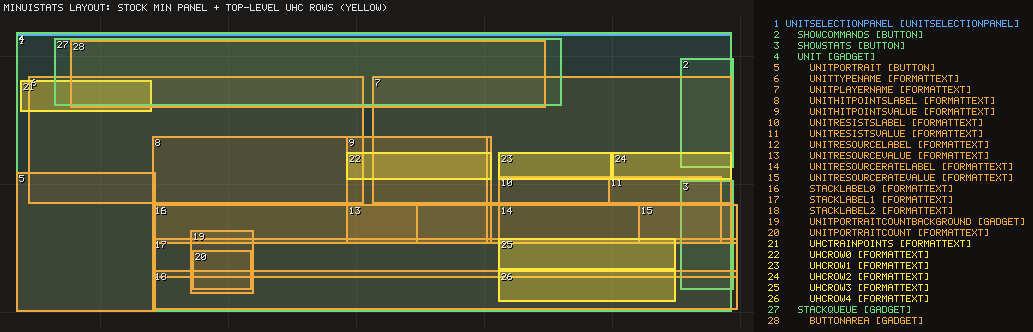
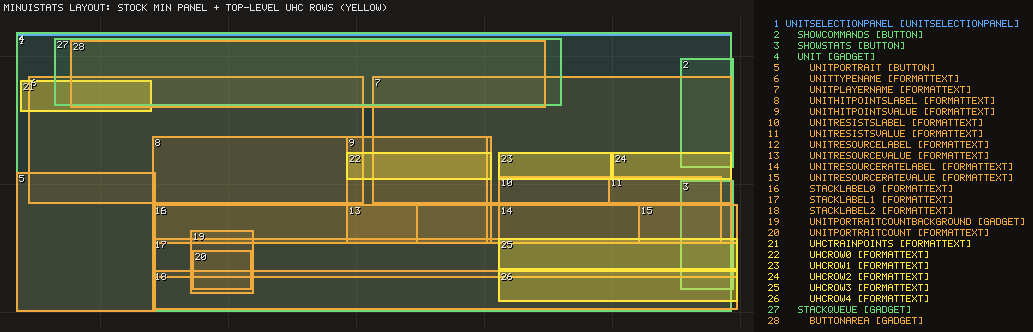
minUIStats: fill a minimized layout loaded without the option; wider rows; FYI note
With WoL.dll's forceMinUI and optionminimizedui off, the exe loaded the
minimized layout but skipped its own block: a hook on the block's choice
(0x4C8276) now runs it whenever the panel has the minimized layout's
unitHitPointsLabel gadget; the normal layout is left alone (tested both).
uhcRow3/uhcRow4 are as wide as the stock attack rows (Sharpshooter's
range fits). note-for-drmaxy.txt replaces the questions (English, FYI);
the stock 9-row stat panel is offered in wol-fixes/min-ui/optional.

Claude-Session: https://claude.ai/code/session_01GGKAnWRpVgHD8ZeFYebw4X

Changed region(s): [[0.6505, 0.6928, 0.7125, 0.9337]]

diff --git a/src/features/minuistats.cpp b/src/features/minuistats.cpp
@@ -35,6 +35,7 @@ extern "C" {
 // 1 while minUIStats runs the stat panel fill for the minimized panel's rows (hooks/minuistats_hooks.asm).
 std::uint32_t g_uhcMinUiForceFill = 0;
 void UhcStatFillMinGate();
+void UhcMinBlockChoice();
 }
 
 namespace {
@@ -1000,7 +1001,7 @@ Outcome ApplyMinUiStats(const Config& config) {
     return Outcome::kFailed;
   }
   if (!VerifyAll("minUIStats",
-                 {&sites::kStatFillHead, &sites::kStatFillMinGate, &sites::kMinResistsUnitGate,
+                 {&sites::kStatFillHead, &sites::kStatFillMinGate, &sites::kMinResistsUnitGate, &sites::kMinBlockChoice,
                   &sites::kGadgetByName, &sites::kGadgetRef, &sites::kGadgetRelease, &sites::kGadgetShow,
                   &sites::kGadgetHide, &sites::kBStringFromWide, &sites::kBStringFromId, &sites::kBStringSet,
                   &sites::kBStringAssign, &sites::kBStringFree, &sites::kCurrentUnitRef, &sites::kMaxHitpointsGetter,
@@ -1014,7 +1015,10 @@ Outcome ApplyMinUiStats(const Config& config) {
   }
   static const std::uint8_t kNops[6] = {0x90, 0x90, 0x90, 0x90, 0x90, 0x90};
   if (!WriteJmp(sites::kStatFillMinGate.va + 0x41, reinterpret_cast<const void*>(&UhcStatFillMinGate), 11) ||
-      !WriteBytes(sites::kMinResistsUnitGate.va + 0x14, kNops, sizeof(kNops)) || !AddUnitPanelTail(&MinUiTail)) {
+      !WriteBytes(sites::kMinResistsUnitGate.va + 0x14, kNops, sizeof(kNops)) || !AddUnitPanelTail(&MinUiTail) ||
+      // After the tail hook, which verifies these bytes too: the minimized block also runs for a minimized layout
+      // loaded without the profile option.
+      !WriteJmp(sites::kMinBlockChoice.va, reinterpret_cast<const void*>(&UhcMinBlockChoice), 11)) {
     return Outcome::kFailed;
   }
   int refs = 0;

diff --git a/tools/gen_sites.py b/tools/gen_sites.py
@@ -1712,6 +1712,9 @@ SITES = [
     # minimized block's way back, jmp 4C8281h
     ("UnitPanelTail", 0x4C8276, 0x15),
     ("UnitPanelMinBlockBack", 0x69A60F, 5),
+    # minUIStats: the choice of that block, cmp byte [esp+5Eh],1 / je 6987D7h (11 bytes, replaced after the tail hook
+    # is in place; inside the UnitPanelTail range, which the tail verifies first)
+    ("MinBlockChoice", 0x4C8276, 0x0B),
     # minUIStats: the stat panel fill FUN_004D70ED, thiscall(panel, selection), ret 4, EBP frame; it reads of its
     # panel only the row handles [+174h+i*4] / [+198h+i*4]. Its head, and its profile option 49h read (push 49h /
     # ... inlined option lookup ... / cmp byte [esp+63h],1 / je 4D81A1h, the 11 bytes the gate replaces at

diff --git a/docs/wol-requests.md b/docs/wol-requests.md
@@ -273,7 +273,7 @@ WoL's Middle East civs.
 | 64 | A `qty` attribute on `<OrPrereqs qty="">`: how many of the prerequisites must be met for the tech to be researched or activated. | mechanic | Built: [`orPrereqsQty`](modding-guide.md#orprereqsqty). In the data, OR is the flag `<Flag>OrPrereqs</Flag>`, so the attribute goes there: `<Flag qty="2">OrPrereqs</Flag>`; the tech is available with N of its `<Prereqs>` met, of any kind. DE has no such attribute (its `OrPrereqs` is the same flag, guide p51, and its techtree has no `qty`). The `<Flag>` handler is wrapped and the evaluator FUN_005094B4 hooked at its head, which `techPrereqRecheck` also calls. In WoL (scenario, with `techPrereqRecheck`): qty 2 of three `TypeCount` buildings activated at the second (45 s), key off at the first (25 s); qty 3 at the third; 0, a word, 9 of 3 and qty on another flag logged. **Decided (2026-11-13):** the attribute stays on the flag: in the data OR is only that flag, so a separate `<OrPrereqs>` element would be a second way to say the same thing, which the game's parser does not know. Not tested: other prerequisite kinds, the AI, multiplayer. | confirmed in WoL (2026-11-13, single player) |
 | 65 | Per-player counters of the cards sent in each age, for `Data` techs that send as many units as the cards sent in age X. | mechanic | Built: [`shipmentCounts`](modding-guide.md#shipmentcounts). DE has `FreeHomeCityUnitByShipmentCount` (every shipment so far, `includeself`; guide p88-89), so the key uses its name and attributes on a Player target and adds `age` (1 to 5); plus `xsGetShipmentCount(playerID, age)` for the AI and triggers. A card counts in the age it was **sent** in (decided 2026-11-13: sending is the player's decision), once it arrives (its transit ends and its tech activates), since a sent card can still be cancelled (by the player or a Blockade); hooks on the queue's add 0x857204 and removal 0x857257 note and forget each card's send age. `age` takes one age or a range (`age='2-4'`), and `xsGetShipmentCountRange(playerID, firstAge, lastAge)` reads a range. Shared: the tech subtypes gained a Player target (`AddTechPlayerSubtype`, the player Data switch 0x8D843E). In WoL: two Age I cards then three Age III cards counted 2 and 3; `includeself` on an Age III card brought 1 Hussar, the next card 1; a tech with `age='1'` brought 2 Hussars; the syscall from an AI rule read `p1 all 5, Age I 2, Age III 3`. **Kept in saved games** (decided 2026-11-13): the counts and the send ages of the cards on their way are saved markers on one living unit, moved when it dies. In WoL: two cards sent in Age II and arriving in Age III counted in Age II (an `includeself` `age='2'` card brought 2 Hussars); saved with both on their way, loaded in a new process: the same counts, units and syscall values (`all 3, I 1, II 2, I-II 3`), and cards sent after the load added up (`1, 2, 2`); the counts survived the deletion of the unit holding them. | confirmed in WoL (2026-11-13, single player) |
 | 66 | A civ that converts its defeated enemies into livestock, each animal random by weight (a high chance of a camel, a low one of a goat). From a WoL team member. | mechanic | Built: [`killSpawn`](modding-guide.md#killspawn). Data in `civs.xml` per civ: `<killSpawn>LivestockCamel 80, ypGoat 20</killSpawn>`, optional `<killSpawnChance>` (%) and `<killSpawnVictims>` (types or protos); a `Data` subtype `KillSpawnChance` on the killer's proto changes the chance per player. The killing blow is TakeDamage's kill path 0x4D4F37, now a shared hook (`killobservers.*`) of `veterancyBonus` and this key. The rolls are the synced RNG 0x407CE7 (stream 2, as the stock dodge), at the kill. The animal is not made inside TakeDamage (the attack applier loops over an area's units there): the world tick makes it, as the stock death replacement 0x506F61 does from the kill handler (the placement test PLACE, world vtable `+14h`, then 0x498ACC), at the victim's spot or up to 4 m from it. No animal from Gaia, own or allied units, buildings, ships or herdables. In WoL (scenarios, Ethiopians' `Cuirassier`): weights 80 / 20 gave 184 camels and 64 goats in 248 kills (74 / 26 %); 100 / 0 only camels; a test tech `Percent 0.5` gave an animal for 69 of 125 kills; bad data (an unknown proto or type, a weight of 0, a chance `abc`) logged and ignored; a civ without the tags nothing; with `veterancyBonus`, `resourceBounty` and `detonationDeath` each kill counted for all; a saved game reloaded kept the tech and its animals, and kills after the load spawned. A skirmish against a German AI (`wolOtto`) on a test map, every civ tagged with victims `Military`: the human's Cuirassiers got 6 camels for 6 infantrymen and the AI's Town Center a goat for a Cuirassier; a normal skirmish of 100 s: the AI built a Manor and trained Settlers. Cost: no frame over 50 ms with the key, in a battle that left 95 animals (fps 348 against 488, the animals being 95 more units). **Decided (2026-11-13):** buildings do not count by default and ships do (a Town Center or a tower would farm herds; a ship that kills on the shore still defeats an enemy): the optional `<killSpawnKillers>` (types or protos) chooses the killers, and `<killSpawnKillers>Building</killSpawnKillers>` gives the buildings back. The animals stay ordinary livestock, which enemies can take over: the game's own rule, and the mod chooses the proto. One list per civ; a list per unit type could become a proto tag later if asked. In WoL after the decision: an Outpost's kill gave nothing without the tag (logged) and a goat and a camel for two kills with `<killSpawnKillers>Building</killSpawnKillers>`. The 80/20 pick was checked: 0x407CE7 returns `(seed >> 16 & 7FFFh) mod (max + 1)`, `max` inclusive, a plain modulo, so it was left as it is; 308 more kills gave 86 / 14 %, and all 556 kills 80.9 / 19.1 %. The hook alone (key on, no civ tagged, against key off, the same battle): 515 against 507 fps, update 0.19 ms both, no frame over 50 ms: no measurable cost. Not tested: multiplayer. | confirmed in WoL (2026-11-13, single player) |
-| 67 | The minimized UI shows less than the big UI: make `UiUnitselectionMIN` show the same or more, from the original minimized UI (buildings have no armor; speed hangs on the armor value). From Dr.Maxy (2026-11-16). | interface | Built: [`minUIStats`](modding-guide.md#minuistats). Rows listed in `data\uhc\minuirows.xml`, top-level gadgets of `uiunitselectionmin.xml`: live speed, LOS, garrison, train points; `bigPanelRows` mirrors the big stat panel's rows the minimized one lacks (4th attack on, gatherers); building armor in the stock resists; nine `{uhc...}` data refs. Catalog and research: [unit-panel-catalog.md](unit-panel-catalog.md). Pack for WoL: `wol-fixes/min-ui` (layout from the stock file, data file, README, questions 5 and 6 for Dr.Maxy). | confirmed in WoL (2026-11-17, single player, also beside WoL.dll's `forceMinUI` and `trickleDisplay`) |
+| 67 | The minimized UI shows less than the big UI: make `UiUnitselectionMIN` show the same or more, from the original minimized UI (buildings have no armor; speed hangs on the armor value). From Dr.Maxy (2026-11-16). | interface | Built: [`minUIStats`](modding-guide.md#minuistats). Rows listed in `data\uhc\minuirows.xml`, top-level gadgets of `uiunitselectionmin.xml`: live speed, LOS, garrison, train points; `bigPanelRows` mirrors the big stat panel's rows the minimized one lacks (4th attack on, gatherers); building armor in the stock resists; nine `{uhc...}` data refs. Catalog and research: [unit-panel-catalog.md](unit-panel-catalog.md). Pack for WoL: `wol-fixes/min-ui` (layout from the stock file, data file, README, a note for Dr.Maxy, the stock 9-row stat panel as an optional extra). | confirmed in WoL (2026-11-17, single player, also beside WoL.dll's `forceMinUI` and `trickleDisplay`) |
 
 ## Minor items left (2026-11-08)
 

diff --git a/docs/porting-code/interface.md b/docs/porting-code/interface.md
@@ -2022,7 +2022,7 @@ Contract: [minUIStats](../porting-to-another-dll.md#minuistats).
 
 Besides the core helpers, it needs: [`datarefs.h`](helpers.md#data-refs), [`unitpanel.h`](helpers.md#unit-panel-row-the-minimized-interface), [`unittypes.h`](helpers.md#extra-abstract-unit-types).
 
-Sites: `BStringFree` `0x4010CA` (31 B), `BStringSet` `0x40196F` (36 B), `BStringFromWide` `0x401A12` (40 B), `GadgetRelease` `0x40431B` (44 B), `BStringAssign` `0x443BB8` (15 B), `GadgetShow` `0x447F7B` (70 B), `GadgetHide` `0x448F13` (57 B), `IsA` `0x44D7FA` (105 B), `MaxHitpointsGetter` `0x480408` (38 B), `LosGetterHead` `0x48206D` (52 B), `MaxContained` `0x49EB5A` (17 B), `GadgetRef` `0x4C519C` (27 B), `StatFillHead` `0x4D70ED` (24 B), `StatFillMinGate` `0x4D721B` (76 B), `BStringFromId` `0x58EA52` (25 B), `MinResistsUnitGate` `0x698BE2` (26 B), `CurrentUnitRef` `0x6F49B1` (65 B), `GadgetByName` `0xAB7C2F` (38 B).
+Sites: `BStringFree` `0x4010CA` (31 B), `BStringSet` `0x40196F` (36 B), `BStringFromWide` `0x401A12` (40 B), `GadgetRelease` `0x40431B` (44 B), `BStringAssign` `0x443BB8` (15 B), `GadgetShow` `0x447F7B` (70 B), `GadgetHide` `0x448F13` (57 B), `IsA` `0x44D7FA` (105 B), `MaxHitpointsGetter` `0x480408` (38 B), `LosGetterHead` `0x48206D` (52 B), `MaxContained` `0x49EB5A` (17 B), `GadgetRef` `0x4C519C` (27 B), `MinBlockChoice` `0x4C8276` (11 B), `StatFillHead` `0x4D70ED` (24 B), `StatFillMinGate` `0x4D721B` (76 B), `BStringFromId` `0x58EA52` (25 B), `MinResistsUnitGate` `0x698BE2` (26 B), `CurrentUnitRef` `0x6F49B1` (65 B), `GadgetByName` `0xAB7C2F` (38 B).
 
 ### src/features/minuistats.cpp
 
@@ -2064,6 +2064,7 @@ extern "C" {
 // 1 while minUIStats runs the stat panel fill for the minimized panel's rows (hooks/minuistats_hooks.asm).
 std::uint32_t g_uhcMinUiForceFill = 0;
 void UhcStatFillMinGate();
+void UhcMinBlockChoice();
 }
 
 namespace {
@@ -3029,7 +3030,7 @@ Outcome ApplyMinUiStats(const Config& config) {
     return Outcome::kFailed;
   }
   if (!VerifyAll("minUIStats",
-                 {&sites::kStatFillHead, &sites::kStatFillMinGate, &sites::kMinResistsUnitGate,
+                 {&sites::kStatFillHead, &sites::kStatFillMinGate, &sites::kMinResistsUnitGate, &sites::kMinBlockChoice,
                   &sites::kGadgetByName, &sites::kGadgetRef, &sites::kGadgetRelease, &sites::kGadgetShow,
                   &sites::kGadgetHide, &sites::kBStringFromWide, &sites::kBStringFromId, &sites::kBStringSet,
                   &sites::kBStringAssign, &sites::kBStringFree, &sites::kCurrentUnitRef, &sites::kMaxHitpointsGetter,
@@ -3043,7 +3044,10 @@ Outcome ApplyMinUiStats(const Config& config) {
   }
   static const std::uint8_t kNops[6] = {0x90, 0x90, 0x90, 0x90, 0x90, 0x90};
   if (!WriteJmp(sites::kStatFillMinGate.va + 0x41, reinterpret_cast<const void*>(&UhcStatFillMinGate), 11) ||
-      !WriteBytes(sites::kMinResistsUnitGate.va + 0x14, kNops, sizeof(kNops)) || !AddUnitPanelTail(&MinUiTail)) {
+      !WriteBytes(sites::kMinResistsUnitGate.va + 0x14, kNops, sizeof(kNops)) || !AddUnitPanelTail(&MinUiTail) ||
+      // After the tail hook, which verifies these bytes too: the minimized block also runs for a minimized layout
+      // loaded without the profile option.
+      !WriteJmp(sites::kMinBlockChoice.va, reinterpret_cast<const void*>(&UhcMinBlockChoice), 11)) {
     return Outcome::kFailed;
   }
   int refs = 0;
@@ -3077,8 +3081,36 @@ EXTERNDEF g_uhcMinUiForceFill:DWORD     ; 1 while minUIStats runs the fill for t
 .data
 statFillReturn  dd 004D81A1h    ; pop edi / ... / ret 4: the fill's end, stock with option 49h
 statFillGo      dd 004D7267h    ; lea ecx,[esp+14h]: the first row
+minBlockGo      dd 006987D7h    ; the selection panel's minimized block
+panelTailGo     dd 004C8281h    ; the fill's tail (the shared tail hook, unitpanel.cpp)
 
 .code
+
+; Replaces 0x4C8276..0x4C8280 (cmp byte ptr [esp+5Eh],1 / je 6987D7h) in the selection panel fill FUN_004C7E52:
+; byte [esp+5Eh] is profile option 49h, optionminimizedui. Stock runs the minimized block with the option on.
+; This also runs it when the panel was built from a minimized layout with the option off (another DLL can force
+; that layout without the option): the panel's unitHitPointsLabel handle [panel+2F0h] (bound at 0x9BAD77) is a real
+; gadget only in the minimized layouts. The byte is then set to 1, as the block's way back and the tail read it.
+; EAX is kept (the block and the tail reload what they use: EBX, the unit, is untouched); the flags are dead.
+UhcMinBlockChoice PROC
+    TRACE_ONCE "minUIStats minimized block choice (0x4C8276)"
+    cmp byte ptr [esp+5Eh], 1
+    je minimized
+    push eax
+    mov eax, dword ptr [esp+4+50h]      ; the panel
+    mov eax, dword ptr [eax+2F0h]       ; its unitHitPointsLabel handle
+    test eax, eax
+    jz normal
+    cmp eax, dword ptr ds:[00C672C0h]   ; the "no gadget" handle
+    je normal
+    pop eax
+    mov byte ptr [esp+5Eh], 1
+minimized:
+    jmp minBlockGo
+normal:
+    pop eax
+    jmp panelTailGo
+UhcMinBlockChoice ENDP
 
 ; Replaces 0x4D725C..0x4D7266 (cmp byte ptr [esp+63h],1 / je 4D81A1h) in FUN_004D70ED: byte [esp+63h] is profile
 ; option 49h, optionminimizedui, read just above. Stock returns there; this goes on to the rows when the DLL asked

diff --git a/docs/porting-to-another-dll.md b/docs/porting-to-another-dll.md
@@ -316,7 +316,7 @@ Each key's page has the code of every file below, the helpers it needs and its s
 | [`src/features/overheal.cpp`](../src/features/overheal.cpp), [`src/hooks/overheal_hooks.asm`](../src/hooks/overheal_hooks.asm) | `overhealHitpointBars`. | unittypes, sites `Overheal*`, `MaxHitpointsGetter`, `HealthRatio`, `InitialHitpointsTag`, `MaxHitpointsTag`, `IsA`, `IsATrue`, your cfg reader |
 | [`src/unitpanel.cpp`](../src/unitpanel.cpp), [`src/unitpanel.h`](../src/unitpanel.h), [`src/hooks/unitpanelrow_hooks.asm`](../src/hooks/unitpanelrow_hooks.asm) | The row of the minimized interface, shared by `showGatherRate` and `overhealHitpointBars stat`; the code is in [section 4](#unit-panel-row-the-minimized-interface). | |
 | [`src/datarefs.cpp`](../src/datarefs.cpp), [`src/datarefs.h`](../src/datarefs.h), [`src/hooks/datarefs_hooks.asm`](../src/hooks/datarefs_hooks.asm) | New `{name}` data refs, appended after the game's registration (call 0x5D3229 redirected). | sites `DataRefParserCtor`, `DataRefRegister`, `DataRefArrayGrow`, `DataRefFloatEval`, `BString*` |
-| [`src/features/minuistats.cpp`](../src/features/minuistats.cpp), [`src/hooks/minuistats_hooks.asm`](../src/hooks/minuistats_hooks.asm) | `minUIStats`. | unitpanel (`AddUnitPanelTail`), datarefs, unittypes (types filters), sites `UnitPanelTail`, `UnitPanelMinBlockBack`, `StatFillHead`, `StatFillMinGate`, `MinResistsUnitGate`, `Gadget*`, `BString*`, `CurrentUnitRef`, `MaxHitpointsGetter`, `LosGetterHead`, `MaxContained`, `IsA`, your cfg reader and `ReadDataListFile` |
+| [`src/features/minuistats.cpp`](../src/features/minuistats.cpp), [`src/hooks/minuistats_hooks.asm`](../src/hooks/minuistats_hooks.asm) | `minUIStats`. | unitpanel (`AddUnitPanelTail`), datarefs, unittypes (types filters), sites `UnitPanelTail`, `UnitPanelMinBlockBack`, `MinBlockChoice`, `StatFillHead`, `StatFillMinGate`, `MinResistsUnitGate`, `Gadget*`, `BString*`, `CurrentUnitRef`, `MaxHitpointsGetter`, `LosGetterHead`, `MaxContained`, `IsA`, your cfg reader and `ReadDataListFile` |
 | [`src/features/gatherrate.cpp`](../src/features/gatherrate.cpp), [`src/hooks/gatherrate_hooks.asm`](../src/hooks/gatherrate_hooks.asm) | `showGatherRate`. | unittypes (only with a UnitType), sites `GatherTick*`, `StatPanel*`, `GatherRateStringRef`, `DataRef*`, `CurrentUnitRef`, `ProtoFlag`, `IsAbstractIndex`, `ResourceNameId`, `BString*`, `IsBuilt`, `IsA`, `WriteDword`, your cfg reader |
 | [`src/features/decimalpop.cpp`](../src/features/decimalpop.cpp), [`src/hooks/decimalpop_hooks.asm`](../src/hooks/decimalpop_hooks.asm), and the cap hook in [`src/features/limits.cpp`](../src/features/limits.cpp) / [`src/hooks/limit_hooks.asm`](../src/hooks/limit_hooks.asm) | `decimalPopulation`. | sites `PopCountParse`, `PopCapAddParse`, `PopCountEffect`, `PopCapAddEffect`, `IntEffect`, `PopCapEffect*`, `TeamPopCap`, `StartPopBonus`, `Xs*`, `Ref*`, `ColorizePop*`, `BStringFormat`, `PopFormat*`, `PopLimit`; `WriteCall`, `WriteDword`, `WriteBytes`, `UhcTraceHook`; your cfg reader |
 | [`src/features/bwrauras.cpp`](../src/features/bwrauras.cpp), [`src/hooks/bwraura_hooks.asm`](../src/hooks/bwraura_hooks.asm), [`src/modifiers.h`](../src/modifiers.h) | `buildingWorkRateAuras`. | sites `ModifyTypeName*`, `Bwr*`, `WorkRateResearchCall`, `WorkRateCommandResearchCall`, `WorkRateMaintainCall`, `SnareCollector`, `SnareModifierSum*`, `BuildingWorkRateGetter`; liveBuildingWorkRate's `UhcBwrGetterHook` symbol for the getter-head check (or drop that check); `WriteCall`, `Matches`; your cfg reader |

diff --git a/docs/modding-guide.md b/docs/modding-guide.md
@@ -7251,10 +7251,10 @@ minUIStats [file]      default data\uhc\minuirows.xml; without it, the rows of w
 - **WoL needs:** a `uiunitselectionmin.xml` with the gadgets. `wol-fixes/min-ui` has one made from the **stock**
   minimized panel (`Data3.bar`) plus seven top-level gadgets, and its README; Dr.Maxy chooses the places. A layout
   without them shows nothing new but the building armor and the data refs. The normal interface is unchanged.
-- **With WoL.dll:** tested beside it (`WoL.upl`), with `forceMinUI` and `trickleDisplay`: no shared byte. With
-  `forceMinUI` and the profile option off, the exe loads the minimized layout but skips its own block, so its rows (HP,
-  attacks) stay empty and the big panel's rows go to the two `uhcRow` gadgets only: give `bigPanelRows` more gadgets,
-  or keep the option on, as WoL's profile does.
+- **With WoL.dll:** tested beside it (`WoL.upl`), with `forceMinUI` and `trickleDisplay`: no shared byte.
+  `forceMinUI` loads the minimized layout without changing the profile option the panel reads; the exe then skipped
+  its own minimized rows (HP, attacks). The key runs them whenever the panel was built from a minimized layout (its
+  `unitHitPointsLabel` gadget exists), option on or off; the normal layout has no such gadget and is left alone.
 - **Multiplayer:** display only; every player can have it or not.
 - **Log:** `minUIStats: 4 rows and the normal interface's stat rows from ...\minuirows.xml; building armor shown in the
   minimized panel's resists; 9 data refs {uhc...} (UI only)`, `data refs: 9 added after the game's 116`, then
@@ -7283,11 +7283,13 @@ minUIStats [file]      default data\uhc\minuirows.xml; without it, the rows of w
   ![The big interface](media/minUIStats-test-hero-big.png)
   ![A ship](media/minUIStats-test-ship-min.png)
 
-  Also: with `WoL.upl` (`forceMinUI`, `trickleDisplay`) and the option on, the same rows; with the option off,
-  ![forceMinUI with the option off](media/minUIStats-test-forcemin.png) (HP and resists in the two rows, the rest
-  in the stat panel). Key off: the stock rows only, the gadgets empty. The profile was restored after each switch.
-- **Limits:** a long attack row in the narrow `uhcRow3`/`uhcRow4` is cut at the gadget's edge (Sharpshooter's range);
-  with a group the rows describe the first unit, as the stock panel does; `shownAttacks` assumes the minimized panel
+  Also: with `WoL.upl` (`forceMinUI`, `trickleDisplay`) the same rows with the option on and off (below: off, Menelik
+  II, with the widened rows); the big interface with the option off and the key on is unchanged (no gadget found).
+  Key off: the stock rows only, the gadgets empty. The profile was restored after each switch.
+
+  ![forceMinUI with the option off](media/minUIStats-test-forcemin.png)
+- **Limits:** a row longer than its gadget is cut at the gadget's edge (`uhcRow3`/`uhcRow4` are as wide as the stock
+  attack rows since 2026-11-17, which fits Sharpshooter's range); with a group the rows describe the first unit, as the stock panel does; `shownAttacks` assumes the minimized panel
   shows three attack rows, two with a resource row.
 
 #### playerIcon

diff --git a/docs/how-it-works.md b/docs/how-it-works.md
@@ -3710,11 +3710,16 @@ a stock one. Seven `currentUnit…` names point to a stub that always fails (`At
 and `currentUnitMaxVelocity` reads the proto's base speed `[proto+80h]`, not the live one the stat
 panel shows.
 
-**The key.** Four writes, each checked against the stock bytes first:
+**The key.** Five writes, each checked against the stock bytes first:
 - **The tail of the selection panel fill** (0x4C8281, 10 bytes, `AddUnitPanelTail` in `unitpanel.*`): both
   interfaces pass there, the minimized one after its own block, which jumps back to it. The hook passes the panel
   `[esp+50h]`, the selection `[esp+78h]`, its first unit `[esp+54h]` and the byte `[esp+5Eh]`, the profile option
   the block was chosen by, then re-executes `mov esi,[esp+50h] / mov edi,[esi+308h]` and goes on at 0x4C828B.
+- **The choice of the minimized block** (0x4C8276, 11 bytes, written after the tail hook, which verifies those bytes
+  too): `cmp byte [esp+5Eh],1 / je 6987D7h` runs the block with the option on; the hook also runs it when the
+  panel's `unitHitPointsLabel` handle `[panel+2F0h]` is a real gadget, which only the minimized layouts have, and
+  sets the byte to 1. A minimized layout loaded with the option off (the layout's choice can be patched apart from
+  the option) is then filled in full; the normal layout goes on to 0x4C8281 as before.
 - **The stat panel fill's gate** (0x4D725C, 11 bytes): `cmp byte [esp+63h],1 / je 4D81A1h` returns with the option
   on; the hook returns too, unless the DLL set `g_uhcMinUiForceFill`, and then goes on to the rows at 0x4D7267.
 - **The resists gate** of the minimized block: the `jne 698E7Ah` after the `Unit` type test (0x698BF6, 6 bytes) is
@@ -3743,7 +3748,7 @@ the resource, the rate, the special attacks and its first attack rows (three, tw
 **Coexistence.** The key's sites do not touch the AutoGather row block (0x6991BF..0x699456), where another DLL may
 redirect the rate's call and NOP its gate, nor the unit panel row hook at 0x699456. The minimized interface can be
 forced by patching the screen's copy of the option (0x761BF0) and the file choices, without the two profile reads at
-0x4C8235 and 0x4D721B: the tail then sees the byte off, and the rows of the stat panel fill go to the block in full.
+0x4C8235 and 0x4D721B: the block choice above makes the selection panel behave as with the option on.
 
 ### buildingWorkRateAuras
 

diff --git a/docs/unit-panel-catalog.md b/docs/unit-panel-catalog.md
@@ -266,7 +266,13 @@ resists spot, used only when the stock one is hidden, i.e. buildings), `uhcRow3.
    attack onward, special attacks).
 2. What the user and Dr.Maxy pick from the catalog (2.2, 2.3).
 
-### Questions for Dr.Maxy
+### Questions for Dr.Maxy (all decided, 2026-11-17)
+
+Decided by the user and the coordinator: 1 the proposed places; 2 the stock Resists spot; 3 the live speed; 4 extra
+rows. 5 is a bug in WoL's file (ours starts from the stock one); 6 is left alone, with the stock 9-row file offered
+in `wol-fixes/min-ui/optional/`. Dr.Maxy gets `note-for-drmaxy.txt`, with no questions. Also fixed since: the extra
+rows are as wide as the stock attack rows, and a minimized layout loaded with the option off (WoL.dll's
+`forceMinUI`) is filled in full. The questions as first written:
 
 1. Are the row places in the proposed preview fine, or do you want to place them yourself?
 2. Building armor: on the stock "Resists" spot with the same look, or a row of its own?

diff --git a/docs/porting-code/helpers.md b/docs/porting-code/helpers.md
@@ -2227,6 +2227,9 @@ inline constexpr Site kUnitPanelTail{"UnitPanelTail", 0x004C8276, kUnitPanelTail
 inline constexpr std::uint8_t kUnitPanelMinBlockBackBytes[] = {0xE9, 0x6D, 0xDC, 0xE2, 0xFF};
 inline constexpr Site kUnitPanelMinBlockBack{"UnitPanelMinBlockBack", 0x0069A60F, kUnitPanelMinBlockBackBytes, sizeof(kUnitPanelMinBlockBackBytes)};
 
+inline constexpr std::uint8_t kMinBlockChoiceBytes[] = {0x80, 0x7C, 0x24, 0x5E, 0x01, 0x0F, 0x84, 0x56, 0x05, 0x1D, 0x00};
+inline constexpr Site kMinBlockChoice{"MinBlockChoice", 0x004C8276, kMinBlockChoiceBytes, sizeof(kMinBlockChoiceBytes)};
+
 inline constexpr std::uint8_t kStatFillHeadBytes[] = {0x55, 0x8B, 0xEC, 0x83, 0xE4, 0xF8, 0x81, 0xEC, 0xA4, 0x00, 0x00, 0x00, 0x53, 0x56, 0x57, 0x8B, 0x7D, 0x08, 0x85, 0xFF, 0x89, 0x4C, 0x24, 0x50};
 inline constexpr Site kStatFillHead{"StatFillHead", 0x004D70ED, kStatFillHeadBytes, sizeof(kStatFillHeadBytes)};
 
